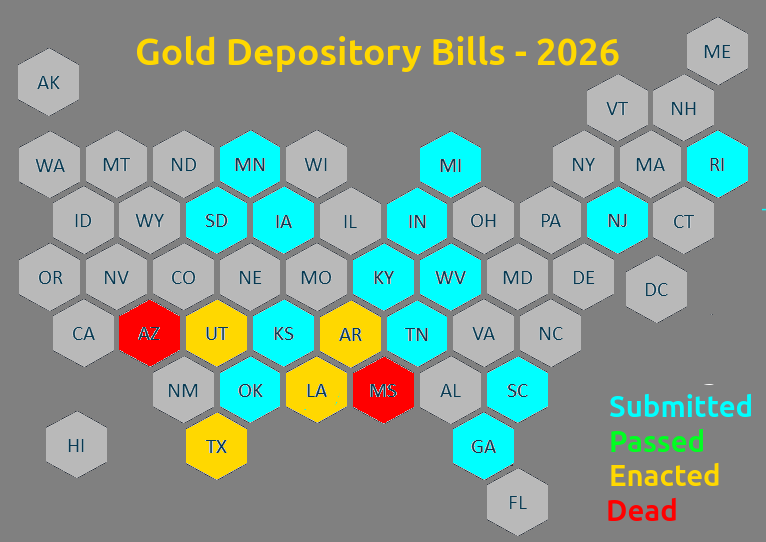
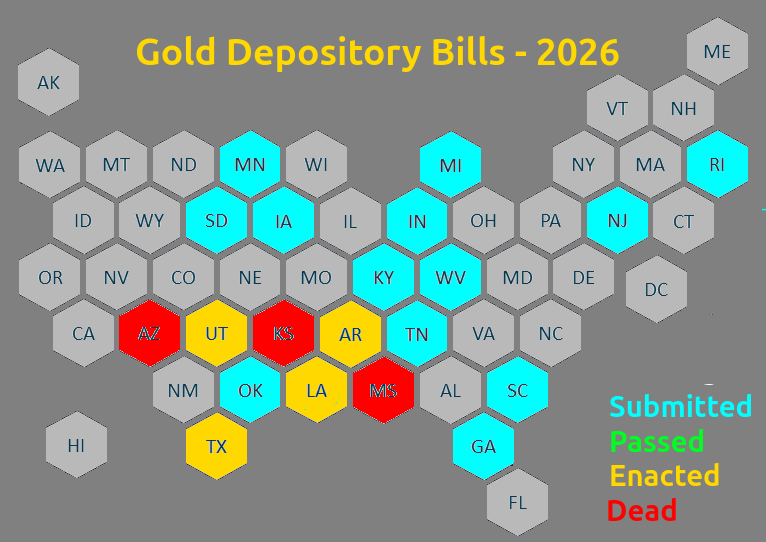
save

Changed region(s): [[0.3303, 0.5609, 0.4204, 0.679]]

diff --git a/docs/open_states/search_legislature_bills.py b/docs/open_states/search_legislature_bills.py
@@ -41,7 +41,7 @@ def search_bills_by_keyword(page, keyword, jurisdiction="all", session=None):
         "page": page,
         "per_page": 20,
         # "jurisdiction": jurisdiction,
-        "updated_since": "2026-02-24",
+        "updated_since": "2026-07-02",
         "include": ["sponsorships"],
         "apikey": API_KEY,
         "session": session
@@ -135,8 +135,8 @@ def main():
     
     size = 1
     #keyword = "cryptocurrency"
-    #keyword = "bullion depository"
-    keyword = "stablecoin"
+    keyword = "bullion depository"
+    #keyword = "stablecoin"
     #keyword = "stable token"
     #keyword = "precious metals digital assets"
     #keyword = "crypto currency"
